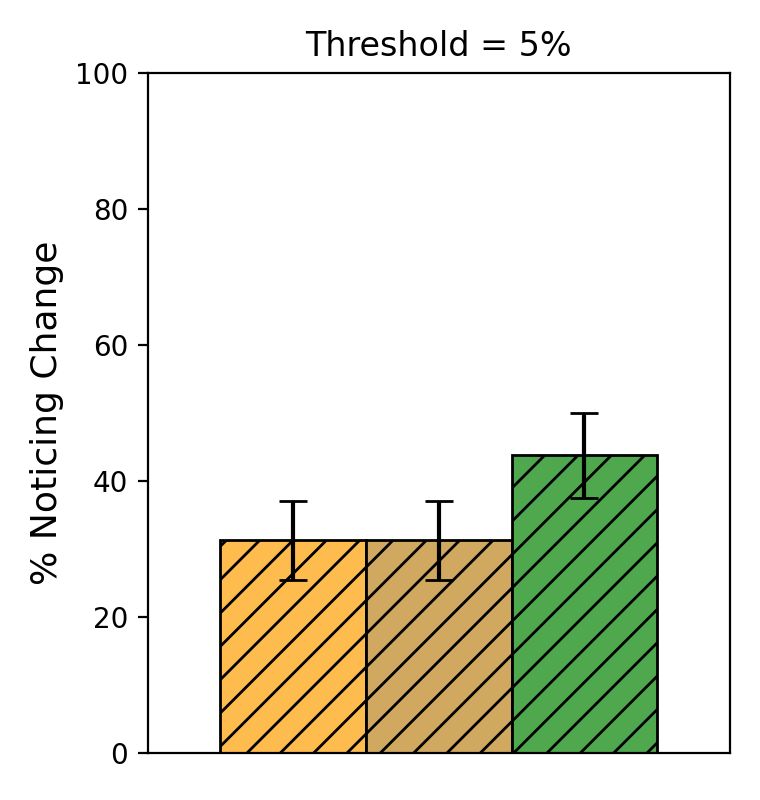
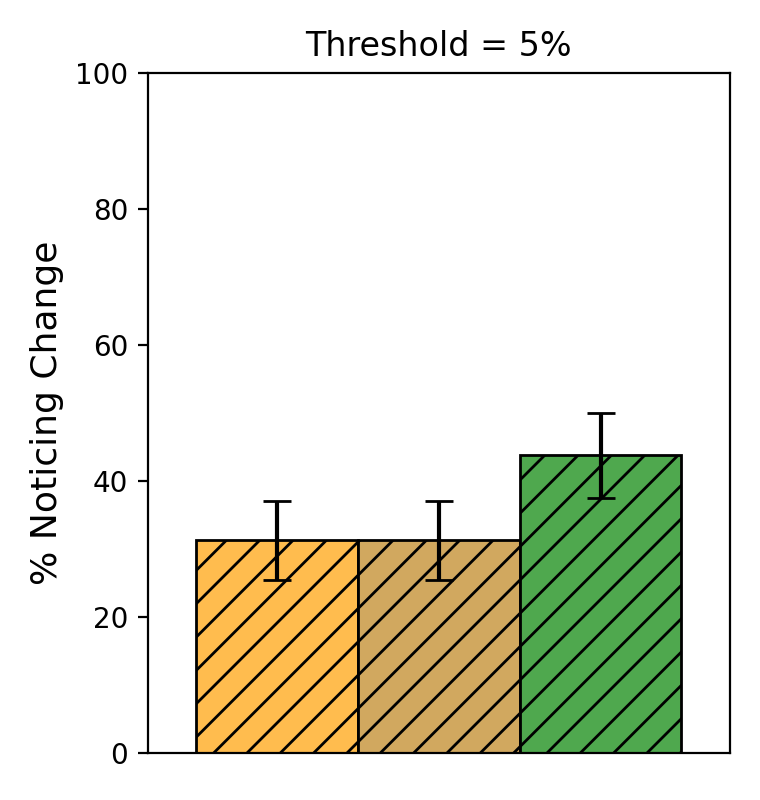
Updated Exp3

diff --git a/detr/EXP_3_CHANGE/main_extract_mistake_score_and_plot.py b/detr/EXP_3_CHANGE/main_extract_mistake_score_and_plot.py
@@ -123,7 +123,7 @@ def main():
 
     # parameters for plotting
     width = 1.0
-    left_margin = 1.5  # three times half-bar (0.5*3)
+    left_margin = 0.5  # three times half-bar (0.5*3)
     high_dpi = 200  # double resolution
 
     for thr in thresholds:
@@ -186,7 +186,7 @@ def main():
         ax.set_xticks([])
         ax.set_ylabel('% Noticing Change', fontsize=label_fontsize)
         ax.set_ylim(0, 100)
-        ax.set_xlim(left_margin - width, left_margin + len(three))
+        ax.set_xlim(left_margin - 0.8*width, left_margin + len(three) - 0.2*width)
         ax.set_title(f'Threshold = {pct}%')
         plt.tight_layout()
         fig.savefig(os.path.join(dir_out, 'three_comparison.png'), dpi=high_dpi)
